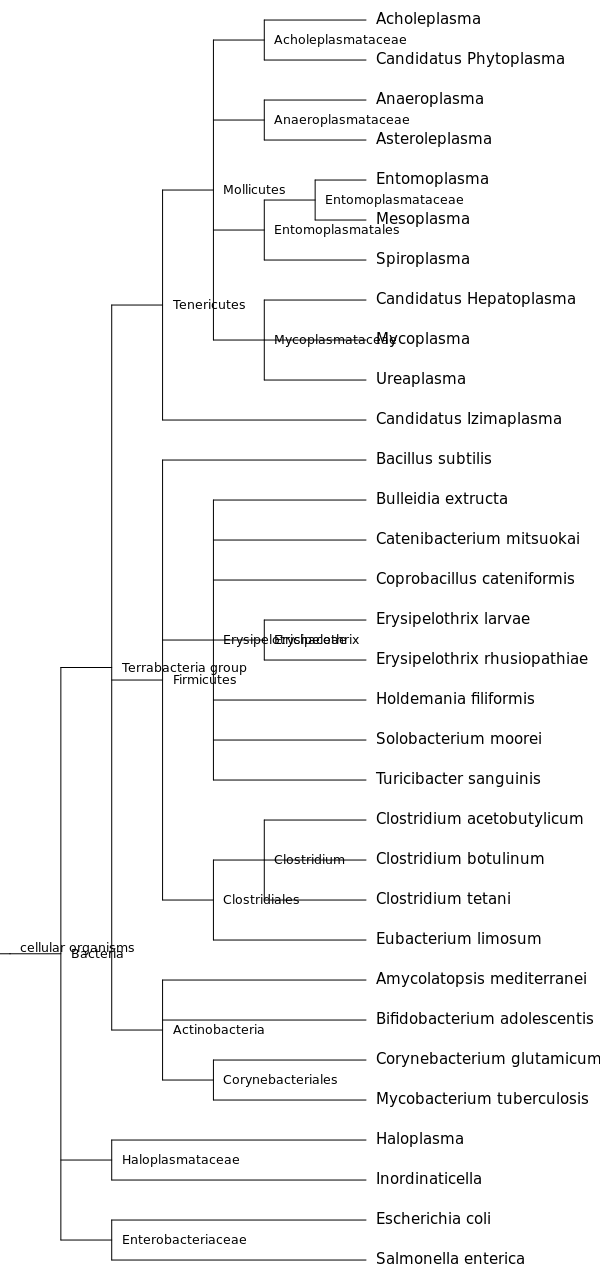
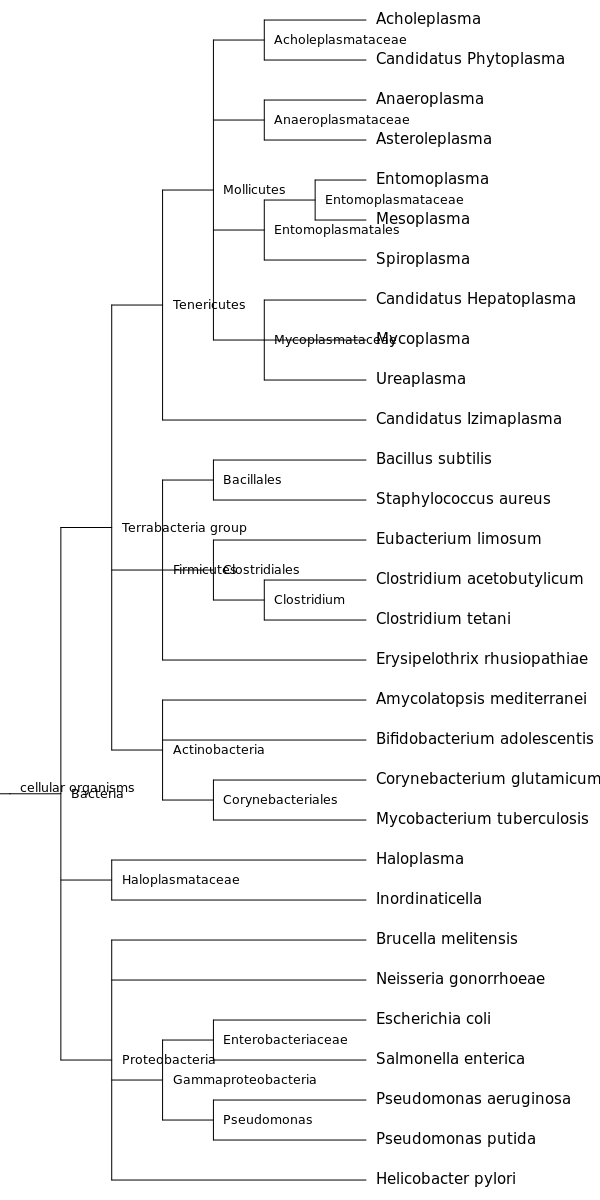
NCBI taxonomy

diff --git a/pop/Tenericutes.md b/pop/Tenericutes.md
@@ -3,10 +3,10 @@
 
 [TOC levels=1-3]: # " "
 - [Aligning various genera from Tenericutes](#aligning-various-genera-from-tenericutes)
-- [Phylum Tenericutes](#phylum-tenericutes)
-- [Trichoderma: assembly](#trichoderma-assembly)
+- [Phylum Tenericutes and outgroups](#phylum-tenericutes-and-outgroups)
+    - [Download from NCBI assembly](#download-from-ncbi-assembly)
     - [NCBI taxonomy](#ncbi-taxonomy)
-- [Count strains](#count-strains)
+    - [Count strains](#count-strains)
 - [Collect proteins](#collect-proteins)
     - [`all.replace.fa` and `all.size.tsv`](#allreplacefa-and-allsizetsv)
     - [`all.annotation.tsv`](#allannotationtsv)
@@ -39,7 +39,7 @@
 - [Tenericutes: run](#tenericutes-run)
 
 
-# Phylum Tenericutes
+# Phylum Tenericutes and outgroups
 
 无壁菌门, 或称柔膜菌门, 无细胞壁
 
@@ -81,7 +81,7 @@ Key genera:
 Outgroup:
 
 * Firmicutes
-    * *Bacillus subtilis* subsp. subtilis str. 168: 224308
+    * Bacillus subtilis subsp. subtilis str. 168: 224308
     * Staphylococcus aureus subsp. aureus NCTC 8325: 93061
     * Eubacterium limosum KIST612: 903814
     * Erysipelothrix rhusiopathiae str. Fujisawa: 650150
@@ -114,7 +114,7 @@ Check NCBI pages:
 * http://www.ncbi.nlm.nih.gov/assembly/?term=txid2093%5BOrganism:exp%5D
 * http://www.ncbi.nlm.nih.gov/genome/?term=txid2093%5BOrganism:exp%5D
 
-# Trichoderma: assembly
+## Download from NCBI assembly
 
 ```bash
 export RANK_NAME=Tenericutes
@@ -225,34 +225,32 @@ bp_taxonomy2tree.pl -e \
     -s "Spiroplasma" \
     -s "Ureaplasma" \
     -s "Bacillus subtilis" \
-    -s "Bulleidia extructa" \
-    -s "Catenibacterium mitsuokai" \
-    -s "Coprobacillus cateniformis" \
-    -s "Clostridium acetobutylicum" \
-    -s "Clostridium botulinum" \
-    -s "Clostridium tetani" \
-    -s "Erysipelothrix larvae" \
-    -s "Erysipelothrix rhusiopathiae" \
+    -s "Staphylococcus aureus" \
     -s "Eubacterium limosum" \
-    -s "Holdemania filiformis" \
-    -s "Solobacterium moorei" \
-    -s "Turicibacter sanguinis" \
+    -s "Erysipelothrix rhusiopathiae" \
+    -s "Clostridium acetobutylicum" \
+    -s "Clostridium tetani" \
     -s "Amycolatopsis mediterranei" \
     -s "Bifidobacterium adolescentis" \
     -s "Corynebacterium glutamicum" \
     -s "Mycobacterium tuberculosis" \
+    -s "Brucella melitensis" \
+    -s "Neisseria gonorrhoeae" \
     -s "Escherichia coli" \
     -s "Salmonella enterica" \
+    -s "Pseudomonas aeruginosa" \
+    -s "Pseudomonas putida" \
+    -s "Helicobacter pylori" \
     > Tenericutes.newick
 
 nw_display -w 600 -s Tenericutes.newick |
-    rsvg-convert -o ~/Scripts/withncbi/pop/Tenericutes.png
+    rsvg-convert -o ~/Scripts/withncbi/image/Tenericutes.png
 
 ```
 
 ![Tenericutes.png](../image/Tenericutes.png)
 
-# Count strains
+## Count strains
 
 ```bash
 cd ~/data/alignment/Tenericutes
